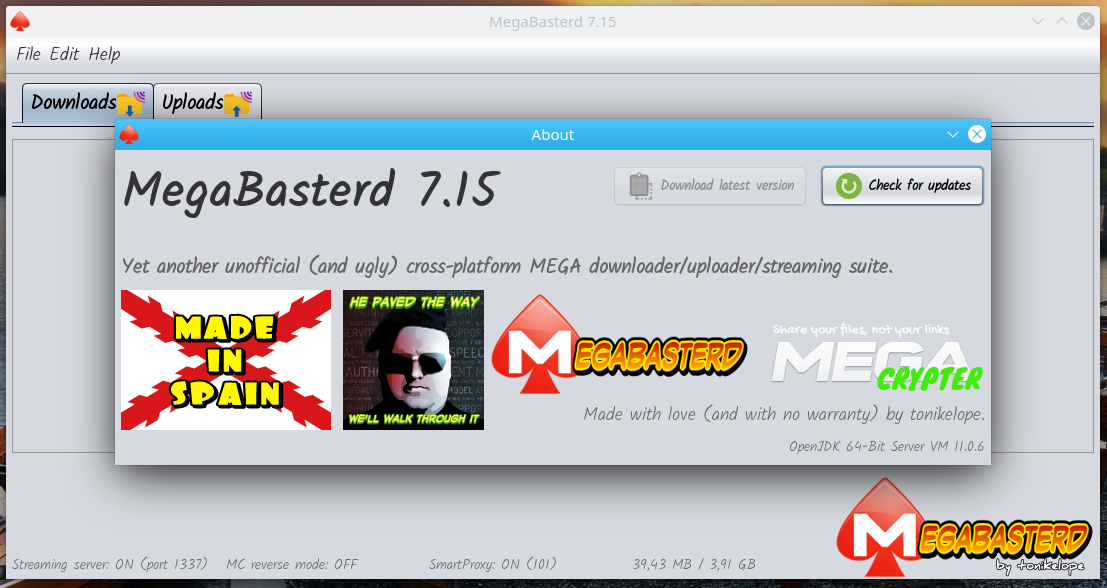
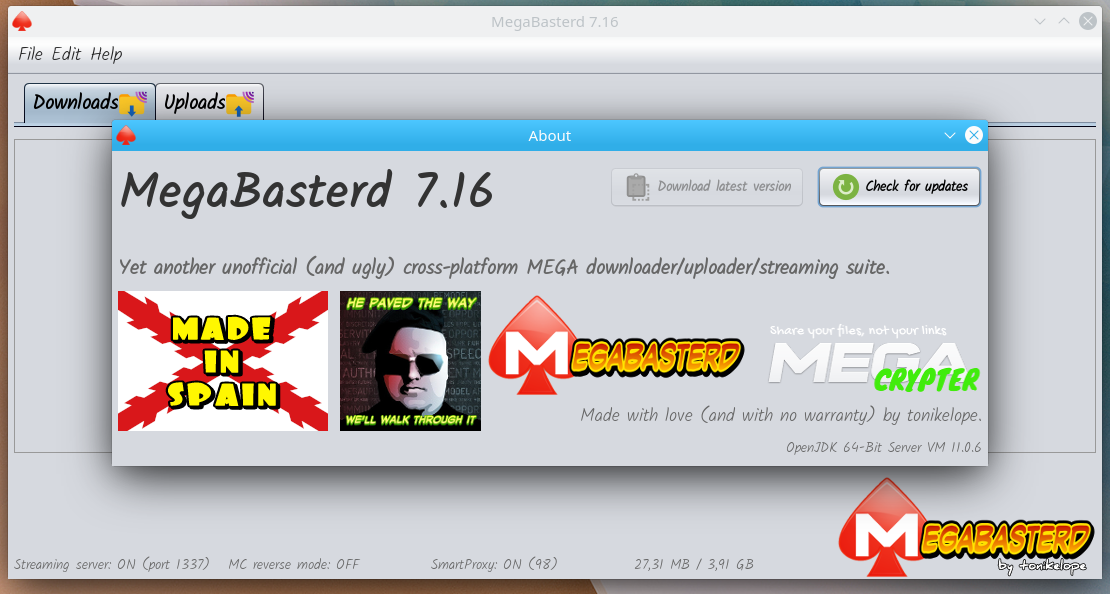
7.16
-Json parser scape all char

Changed region(s): [[0.0, 0.0, 1.0, 1.0], [0.4607, 0.2143, 0.5221, 0.2449]]

diff --git a/src/main/java/com/tonikelope/megabasterd/MainPanel.java b/src/main/java/com/tonikelope/megabasterd/MainPanel.java
@@ -55,7 +55,7 @@ import javax.swing.UIManager;
  */
 public final class MainPanel {
 
-    public static final String VERSION = "7.15";
+    public static final String VERSION = "7.16";
     public static final boolean FORCE_SMART_PROXY = false; //TRUE FOR DEBUGING SMART PROXY
     public static final int THROTTLE_SLICE_SIZE = 16 * 1024;
     public static final int DEFAULT_BYTE_BUFFER_SIZE = 16 * 1024;

diff --git a/src/main/java/com/tonikelope/megabasterd/MegaCrypterAPI.java b/src/main/java/com/tonikelope/megabasterd/MegaCrypterAPI.java
@@ -154,6 +154,8 @@ public class MegaCrypterAPI {
 
         objectMapper.configure(JsonParser.Feature.ALLOW_SINGLE_QUOTES, true);
 
+        objectMapper.configure(JsonParser.Feature.ALLOW_BACKSLASH_ESCAPING_ANY_CHARACTER, true);
+
         HashMap res_map = objectMapper.readValue(res, HashMap.class);
 
         String fname = cleanFilename((String) res_map.get("name"));

diff --git a/src/main/java/com/tonikelope/megabasterd/MegaAPI.java b/src/main/java/com/tonikelope/megabasterd/MegaAPI.java
@@ -641,6 +641,8 @@ public class MegaAPI implements Serializable {
 
             objectMapper.configure(JsonParser.Feature.ALLOW_SINGLE_QUOTES, true);
 
+            objectMapper.configure(JsonParser.Feature.ALLOW_BACKSLASH_ESCAPING_ANY_CHARACTER, true);
+
             res_map = objectMapper.readValue(att, HashMap.class);
 
         } catch (Exception ex) {
